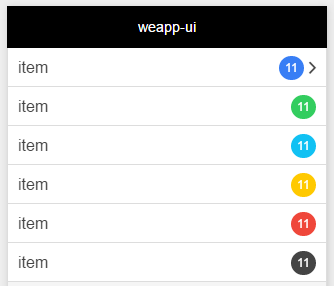
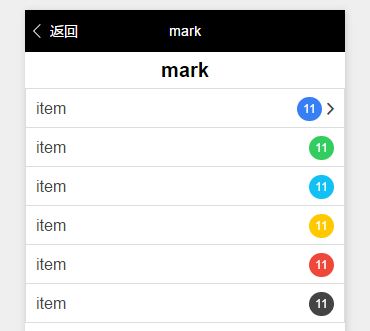
效果图更改，示例代码更改，针对新版本修改项目

Changed region(s): [[0.0, 0.0, 0.988, 1.0]]

diff --git a/pages/mark/mark.js b/pages/mark/mark.js
@@ -1,0 +1,20 @@
+Page({
+  data:{
+    // text:"这是一个页面"
+  },
+  onLoad:function(options){
+    // 页面初始化 options为页面跳转所带来的参数
+  },
+  onReady:function(){
+    // 页面渲染完成
+  },
+  onShow:function(){
+    // 页面显示
+  },
+  onHide:function(){
+    // 页面隐藏
+  },
+  onUnload:function(){
+    // 页面关闭
+  }
+})
